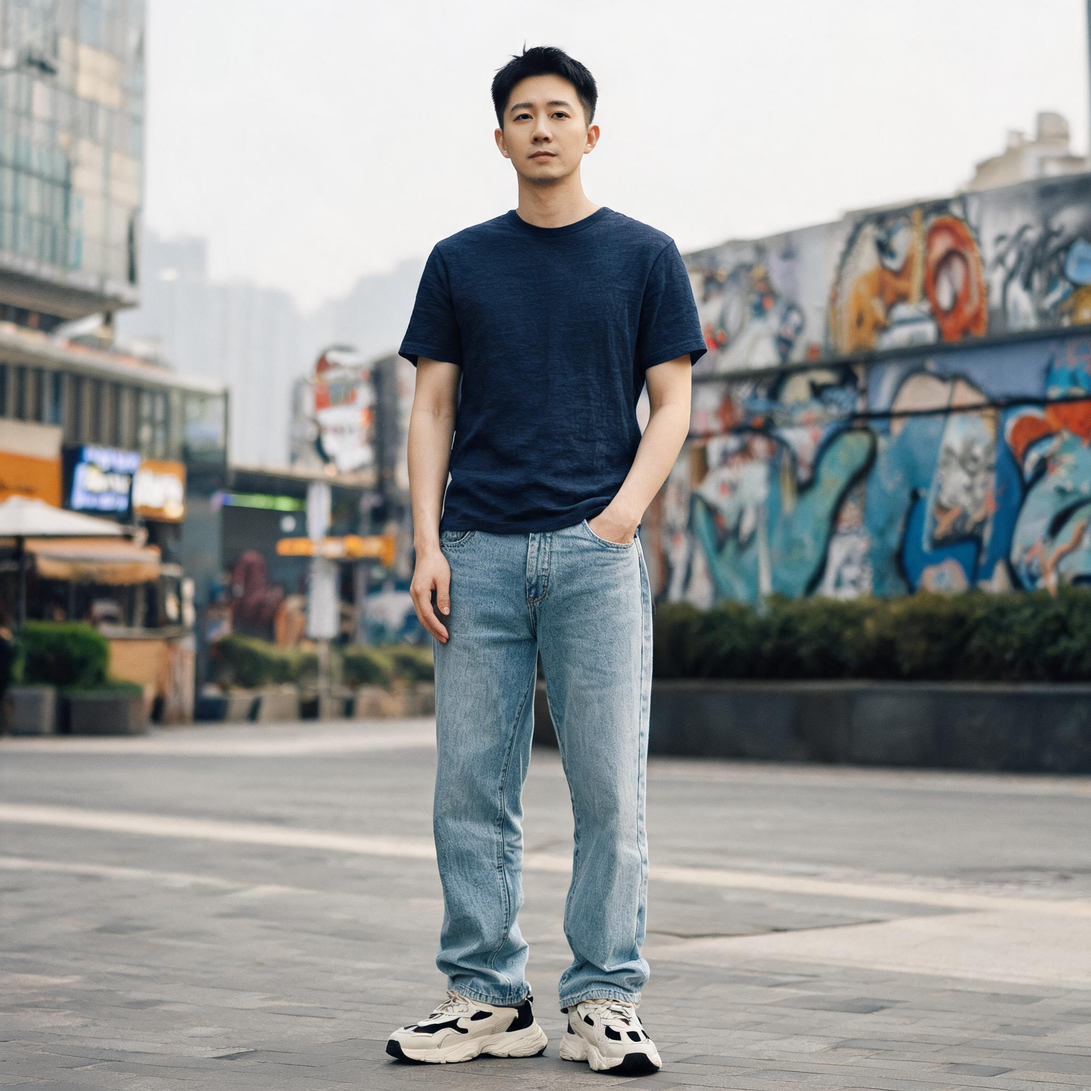
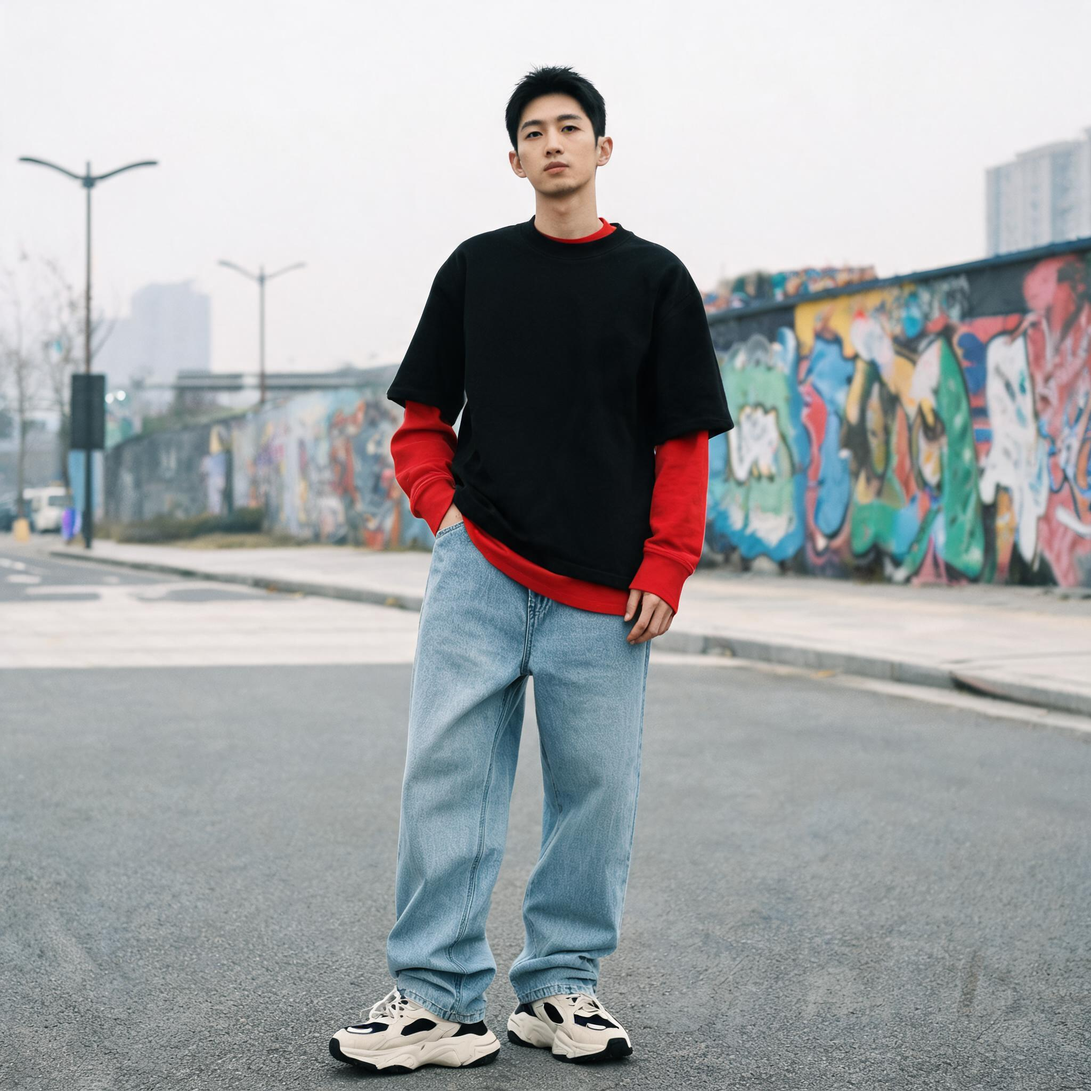
🧪 B线探索: 街头潮流 (2026-06-14)

diff --git a/outfits/2026-06-14_街头潮流B线探索/outfit.md b/outfits/2026-06-14_街头潮流B线探索/outfit.md
@@ -8,26 +8,28 @@
 ## 单品清单
 | 品类 | ID | 单品 | 选品理由 |
 |------|-----|------|----------|
-| 短袖上衣 | **TS-008** | FUR SPEED 藏青色短袖上衣 | 藏青色印花 ⭐锚点 |
-| 长裤 | **PT-001** | 浅水洗蓝长裤 | 藏青色印花 |
-| 鞋子 | **SHOE-010** | Puma 米白拼黑鞋子 | 藏青色印花 |
+| 长袖上衣 | **LS-001** | FILA 正红色长袖上衣 | 正红色印花 ⭐锚点 |
+| 短袖上衣 | **TS-006** | H FOREST 黑色短袖上衣 | 正红色印花 |
+| 长裤 | **PT-001** | 浅水洗蓝长裤 | 正红色印花 |
+| 鞋子 | **SHOE-010** | Puma 米白拼黑鞋子 | 正红色印花 |
 
 ## 探索叙事
 
-🔍 **探索基点**：TS-008 FUR SPEED
-   藏青色 | 麻 | 藏青色印花
-   发现它的价值：深藏青底色配密集大叶印花可有效转移视线、遮盖小肚子,藏青色衬肤色
+🔍 **探索基点**：LS-001 FILA
+   正红色 | 棉 | 正红色印花
+   发现它的价值：宽松连帽卫衣可大幅增加上半身体量感和肩宽,适合偏瘦体型,但大红色较为鲜艳吸睛
 
 🔭 **探索方向**：街头潮流（渐进探索）
-   从你喜欢的风格延伸而来，「藏青色印花」作为桥梁单品带你探索街头潮流
+   从你喜欢的风格延伸而来，「正红色印花」作为桥梁单品带你探索街头潮流
 
 🎯 **搭配逻辑**：
-   👖 **PT-001** 浅水洗蓝 — 和谐呼应（风格匹配 45分）
+   👕 **TS-006** 黑色 — 中性平衡（风格匹配 66分）
+   👖 **PT-001** 浅水洗蓝 — 中性平衡（风格匹配 45分）
    👟 **SHOE-010** 米白拼黑 — 中性平衡（风格匹配 28分）
 
 📖 **风格溯源**：Streetwear 的起源可追溯到两个地理中心——**南加州**和**纽约市**——各自孕育了该风格的不同基因。
 
-💬 **穿法建议**：锚点合身剪裁，可用宽松外套制造层次对比
+💬 **穿法建议**：锚点单品偏宽松，下装可选直筒/锥形保持上下平衡
 
 ## 风格关键词
 
